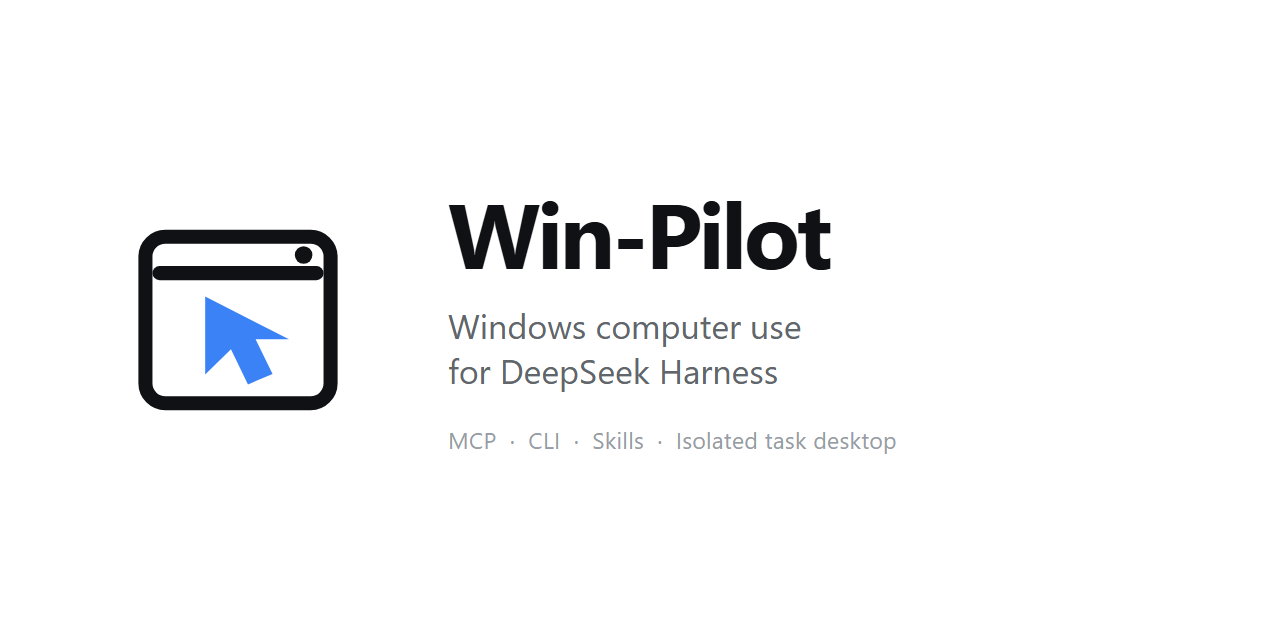
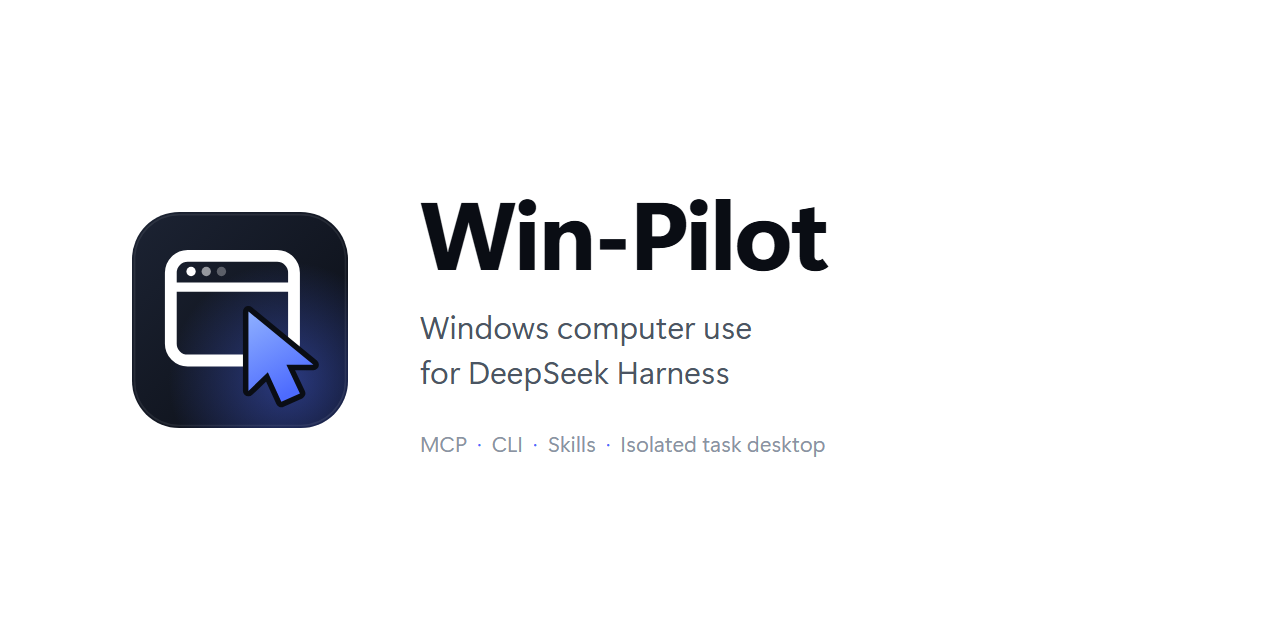
docs: refresh the README for 0.6.0
- Regenerate the README banner with the new product icon.
- List remoteControlPolicy among the settings and describe the compact
  settings card, the task window's state dot, the remote-control and UU
  handling, and the display-scale restore on close.
- The settings doc now counts five Config fields.

diff --git a/README.md b/README.md
@@ -98,12 +98,15 @@ In DeepSeek Harness **0.2.0-rc.2 or later**, open **Settings → Win-Pilot** or 
 | `statusPill` | `true` | Show the running status pill |
 | `browserHeadlessDefault` | `false` | Run browsers without a visible window |
 | `desktopEnvironment` | `current` | Where computer actions run: this desktop or the separate task window |
+| `remoteControlPolicy` | `fallback` | When remote control is attached: run on the current desktop instead, or stop and report |
 
 `desktopEnvironment` defaults to `current`; `task` selects the separate task window. Save the setting to switch on the next computer operation. Win-Pilot cancels and cleans up the old control session before changing desktops, releases old browser claims, and requires a fresh window list or desktop screenshot before input. Old targets cannot carry over; failed cleanup blocks the switch. With the option off, model schemas, runtime skills and diagnostics do not advertise the task-desktop option. With it on, native actions, observations, clipboard and recovery stay in that task desktop; failure never redirects work to the main desktop. Browser actions require a browser launched by the same task.
 
-The light, frameless window defaults to 432×300. Its toolbar contains expand/restore, pin and close. In the expanded view, click, drag or type to take over: AI input stops before your first gesture is delivered. After 10 seconds without manual input, control returns to the AI; a held button or key prevents that return. The compact view is read-only. Right-click the toolbar for local sign-in settings. Complete Windows feature setup and local sign-in once; optionally remember credentials using the current Windows user's DPAPI and Credential Manager. Passwords stay in the local dialog. This mode requires .NET 8 Windows Desktop Runtime and working Windows child-session support. A Windows user change, credential change or system policy may require setup again; it is not a virtual machine.
+The light, frameless window defaults to 432×300. A coloured dot shows its state, and the toolbar contains expand/restore, pin and close. In the expanded view, click, drag or type to take over: AI input stops before your first gesture is delivered. After 10 seconds without manual input, control returns to the AI; a held button or key prevents that return. The compact view is read-only. Right-click the toolbar for local sign-in settings. Complete Windows feature setup and local sign-in once; optionally remember credentials using the current Windows user's DPAPI and Credential Manager. Passwords stay in the local dialog. This mode requires .NET 8 Windows Desktop Runtime and working Windows child-session support. A Windows user change, credential change or system policy may require setup again; it is not a virtual machine.
 
-The settings card distinguishes the installed version from the running version. When a new managed release is installed, use Safely reload to wait for active operations, release control and load that release. An in-place update or an older running plugin may require restarting DeepSeek Harness. See [task desktop](./docs/task-desktop.md) for behavior and verification limits.
+The task desktop is never shown to a remote viewer. While remote control is attached it does not open, and if a viewer attaches while it is open, actions move to the current desktop; `remoteControlPolicy: refuse` stops instead. UU (NetEase GameViewer) is judged by its traffic, so an idle UU does not block it, and UU's tray client is closed inside the task desktop. Closing the task desktop restores any main-desktop display scale a remote-control product changes during logoff.
+
+The settings card is one compact panel: three switches and two icon segmented controls, with a per-field reset for overridden values. Its footer shows the running version on the left and unsaved changes with discard and save on the right; Ctrl+S saves and Esc discards. When a new managed release is installed, use Safely reload to wait for active operations, release control and load that release. An in-place update or an older running plugin may require restarting DeepSeek Harness. See [task desktop](./docs/task-desktop.md) for behavior and verification limits.
 
 Use `win-pilot desktop --preview` to view the native window without creating a session or running computer actions. `win-pilot desktop` is the normal connection entry and respects the connection hold. Source builds use `npm run build:desktop`; checks without Windows sessions use `npm run test:desktop`.
 

diff --git a/docs/settings-panel.md b/docs/settings-panel.md
@@ -2,7 +2,7 @@
 
 面板共五项，放在一个紧凑面板里，无需滚动即可全部看到：三个开关（显示操作光标、动作进行中显示状态条、浏览器后台运行）和两个带图标的分段控件（运行位置：当前桌面 / 独立任务窗口；远程控制接入时：改用当前桌面 / 停止并提示）。卡片只有控件标签和状态信息，不放介绍、分组标题或说明段落。底部一行左侧是运行版本（有新版时显示“重新加载”），右侧是未保存数量、放弃和保存。已覆盖的项显示徽标和图标式“恢复默认”按钮。界面语言跟随宿主语言，每个控件都有可见标签与无障碍名称；颜色取自宿主主题变量，深浅色主题均适用。
 
-当前宿主要求 DeepSeek Harness 0.2.0-rc.2 或更新版本，并提供 `configForms`、`plugins.bundle.config` 和 `settings.section`。插件只导出三个标记为 `volatile()` 的布尔 Config 字段，不再注册旧命名空间、读取 `settingsScope` 或挂载旧 Plugins 槽位。表单依据宿主描述的 Loader entry id 绑定，支持 `win-pilot` 和 `include:win-pilot` 的当前入口。保存和恢复默认被拒绝时保留草稿并显示失败；控制器更新会刷新页面。
+当前宿主要求 DeepSeek Harness 0.2.0-rc.2 或更新版本，并提供 `configForms`、`plugins.bundle.config` 和 `settings.section`。插件只导出五个标记为 `volatile()` 的 Config 字段（三个布尔值、两个枚举），不再注册旧命名空间、读取 `settingsScope` 或挂载旧 Plugins 槽位。表单依据宿主描述的 Loader entry id 绑定，支持 `win-pilot` 和 `include:win-pilot` 的当前入口。保存和恢复默认被拒绝时保留草稿并显示失败；控制器更新会刷新页面。
 
 参见 [桌面控制契约](desktop-control-contract.md) 和 [输入中断要求](input-interruption.md)：后台输入、锁屏检查、用户输入中断、焦点让路和默认读取窗口文字遵循本产品自己的契约。浏览器通道是独立能力，不假设它与其他产品的浏览器偏好存在对应关系。
 
